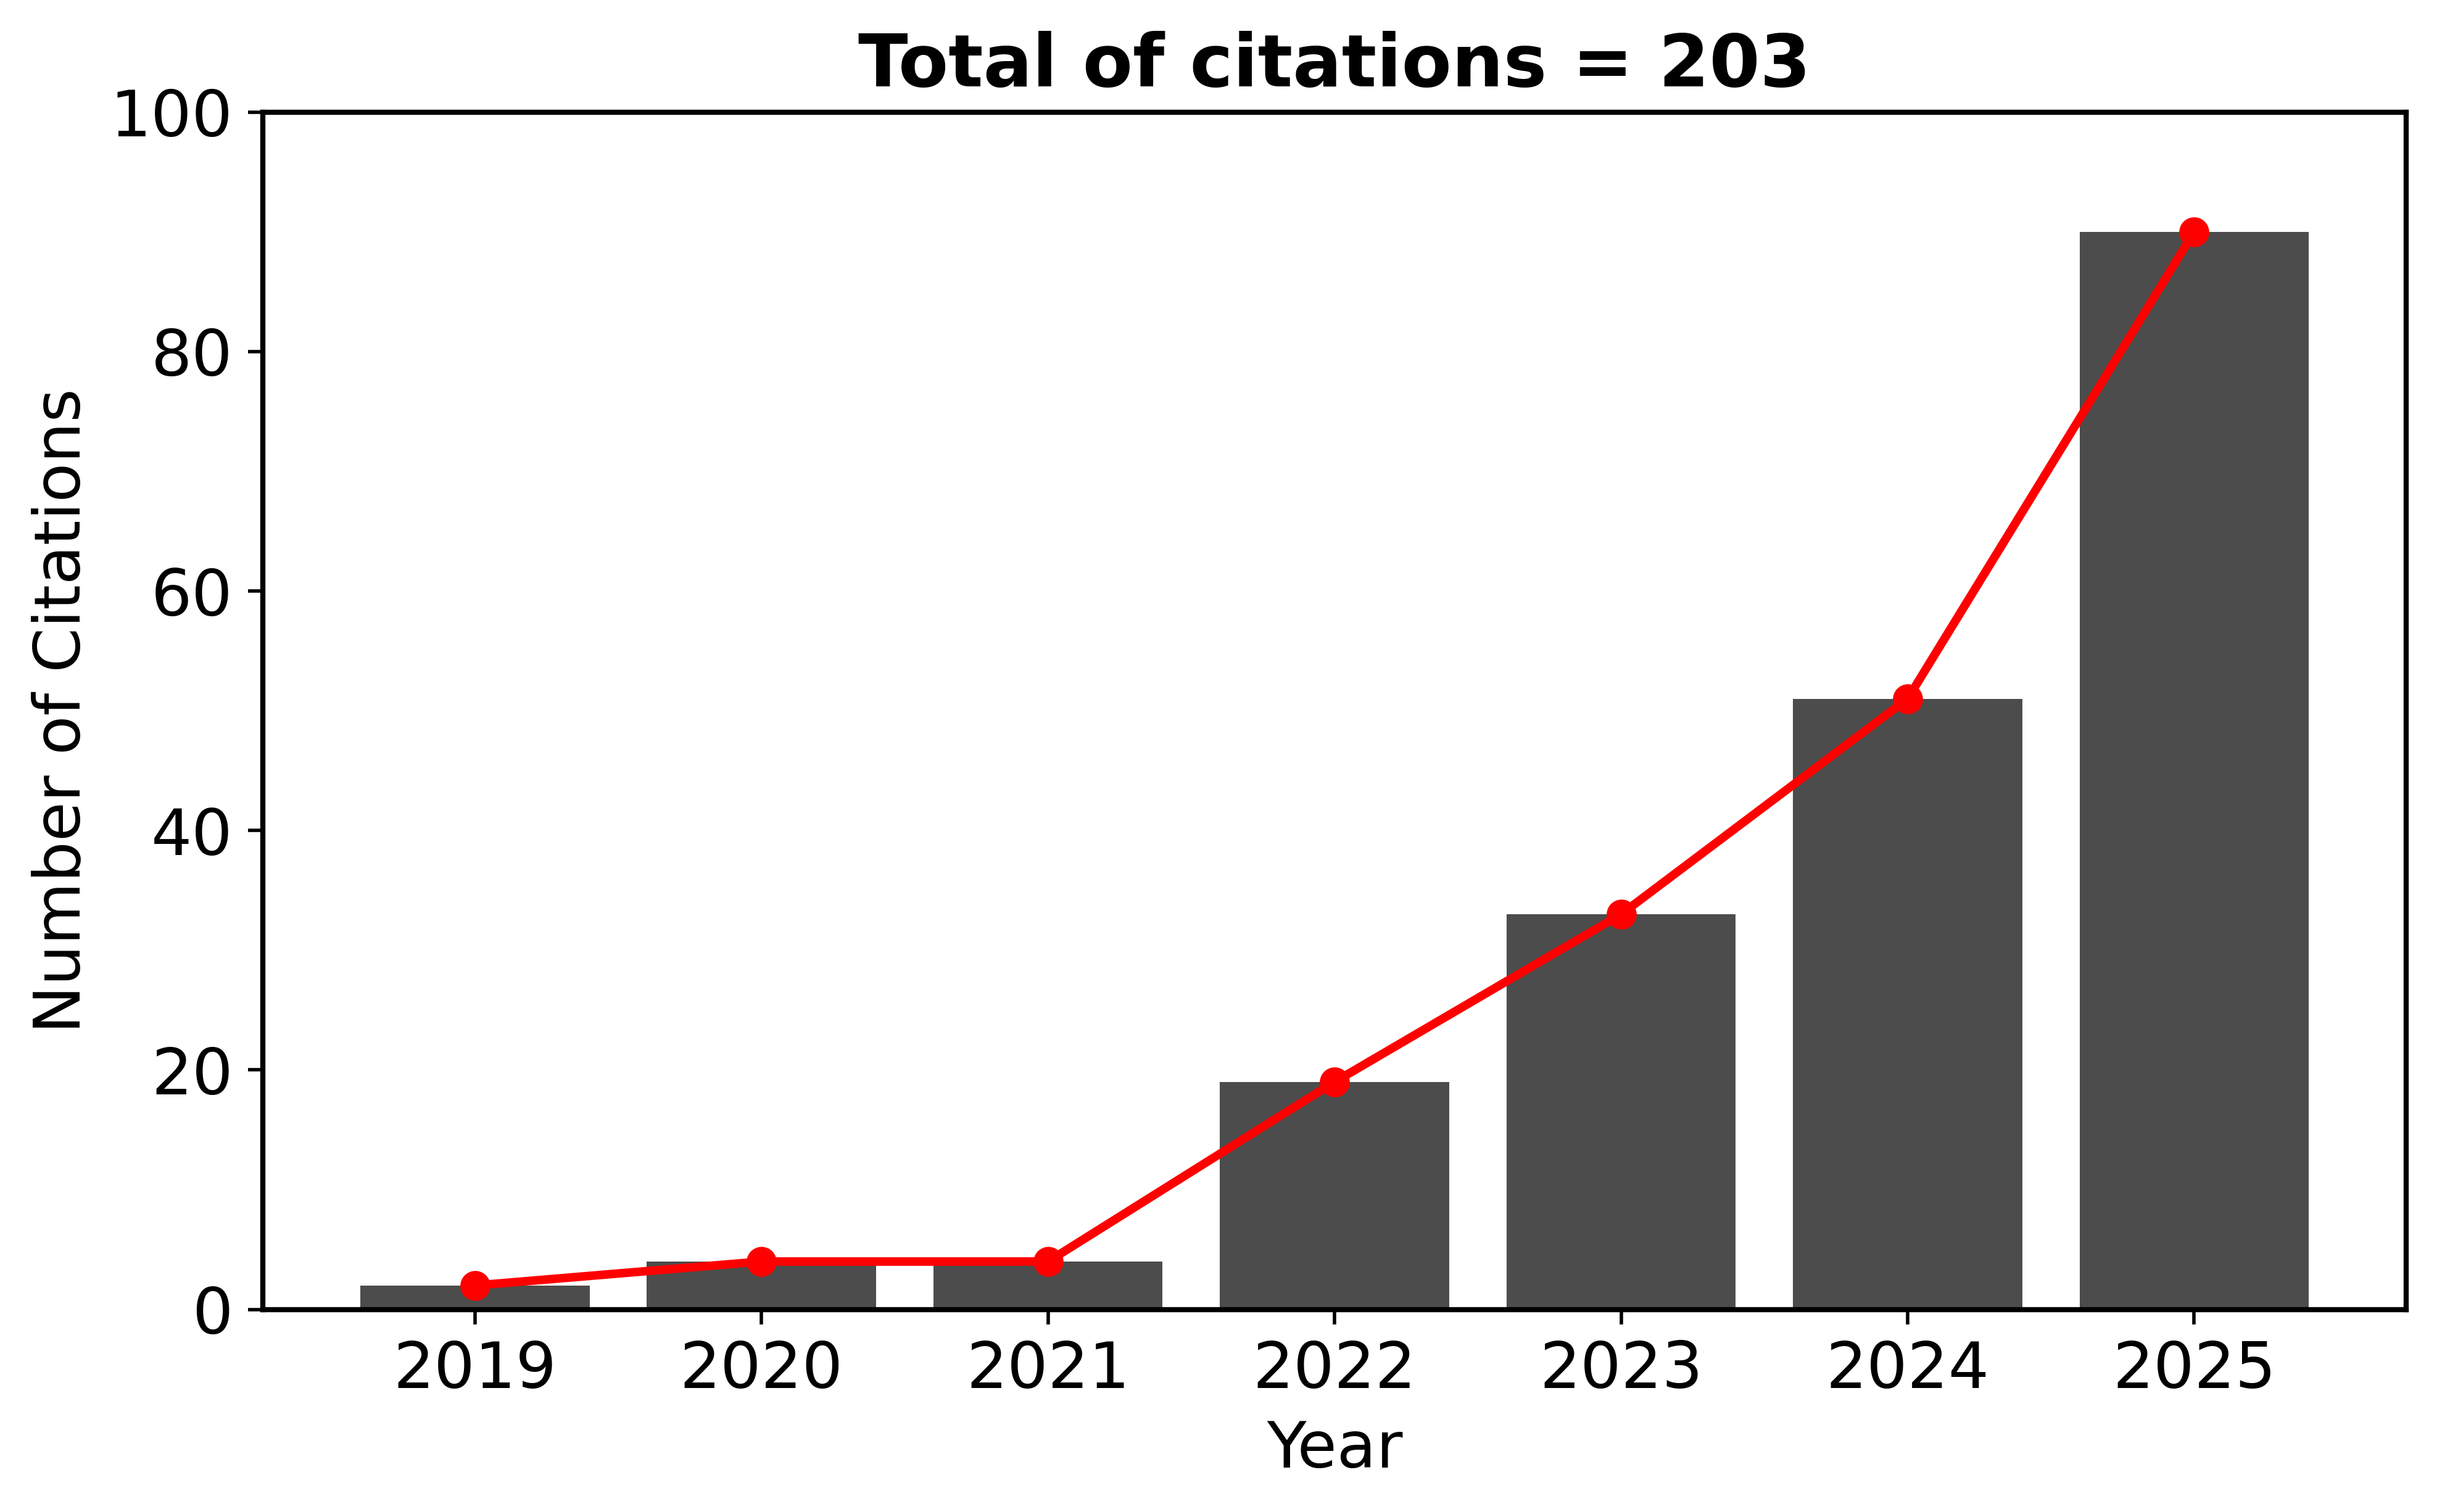
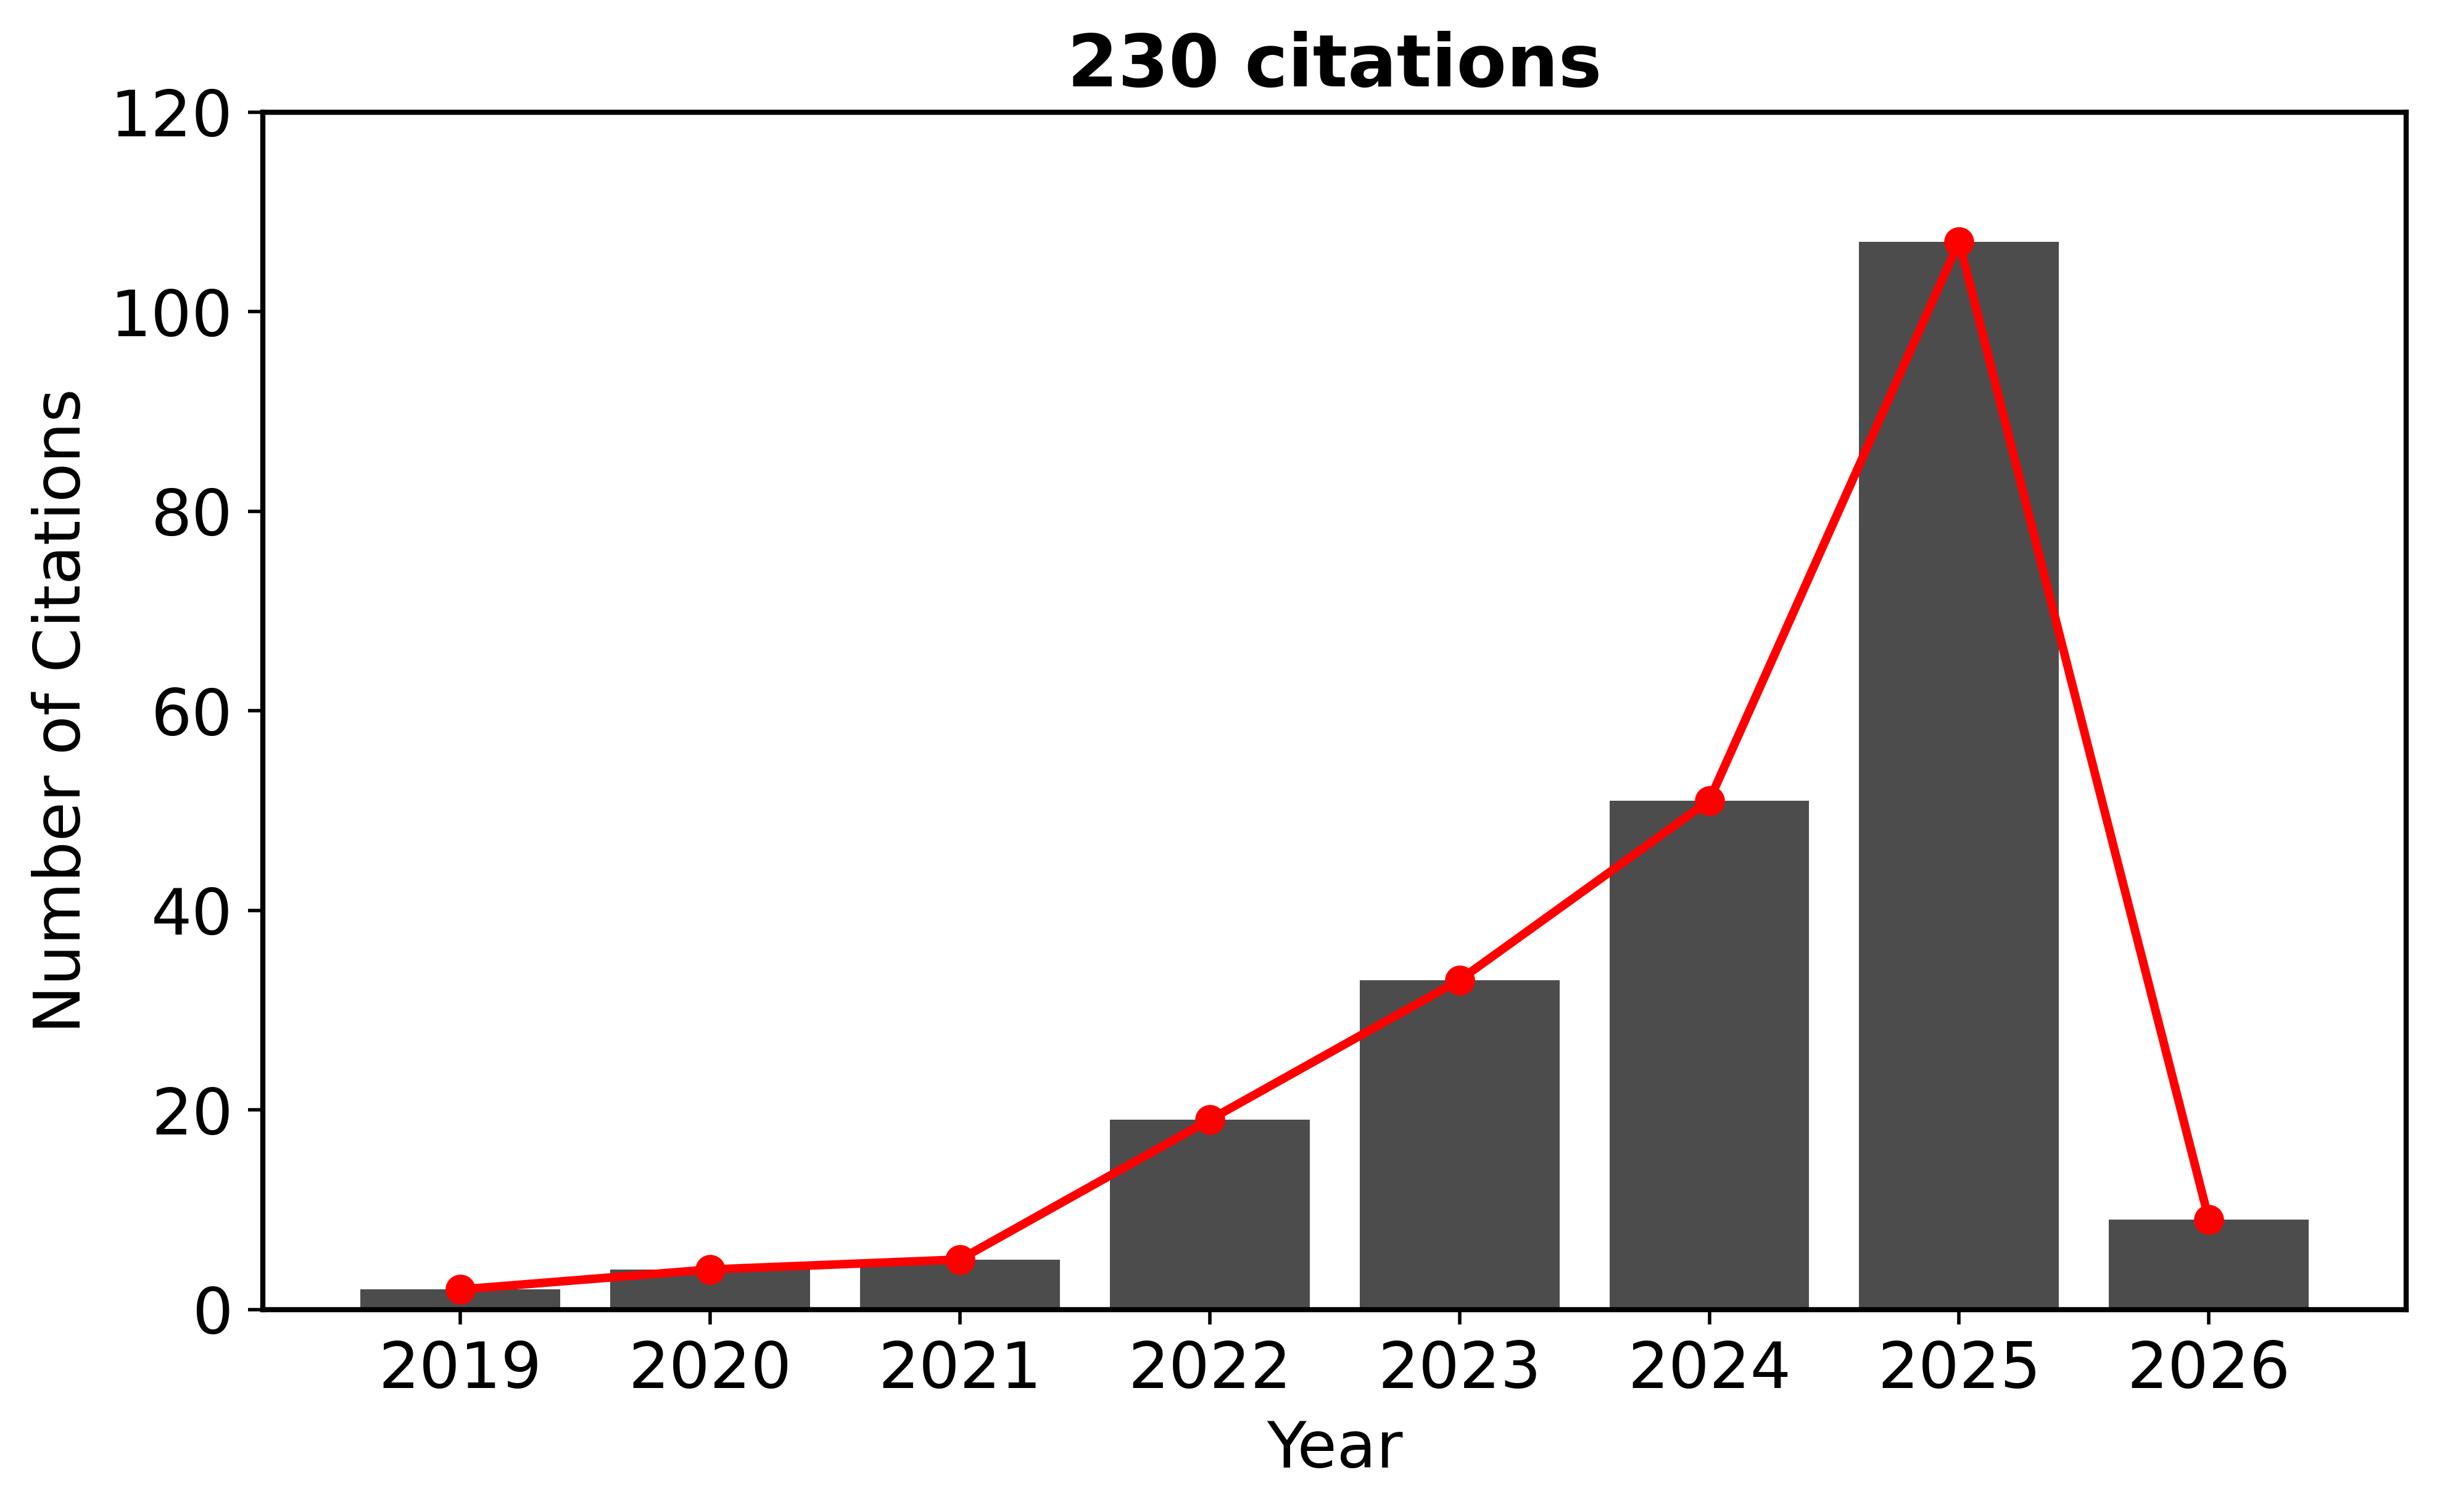
new article

diff --git a/publications.html b/publications.html
@@ -48,18 +48,23 @@
         <h1>Bibliometric data</h1>
 
         <div class="custom-container">
-            <div class="custom-title">H=10, 22 articles in international peer reviewed journals, 14 articles as first author</div><br>
+            <div class="custom-title">H=11, 23 articles in international peer reviewed journals, 14 articles as first author</div><br>
     <div style="text-align: center;">
       <img src="research/output.png" alt="citation"
            style="width: 45%; height: auto; border-radius: 10px; box-shadow: 0px 4px 8px rgba(0, 0, 0, 0.1);">
     </div>
             <div class="custom-text">
                 Source: 
-                <a href="https://scholar.google.com/citations?user=ZF1mcjoAAAAJ&hl=en&oi=ao" target="_blank">Google Scholar (updated 01/12/2025)</a>
+                <a href="https://scholar.google.com/citations?user=ZF1mcjoAAAAJ&hl=en&oi=ao" target="_blank">Google Scholar (updated 06/03/2026)</a>
             </div>
         </div>
 
         <h1>Published articles</h1>
+        <h2>2026</h2>    
+        <ul>
+            <li><a href="https://iopscience.iop.org/article/10.3847/2041-8213/ae4751" target="_blank">Braga-Ribas et al.: Evidence of a New Arc or a Belt of Small Satellites around (50000) Quaoar</a></li>      
+        </ul>  
+        
         <h2>2025</h2>    
         <ul>
             <li><a href="https://www.nature.com/articles/s41467-025-66484-3" target="_blank">Raducan et al.: Multiple moonlet mergers as the origin of the Dinkinesh-Selam system</a></li>      